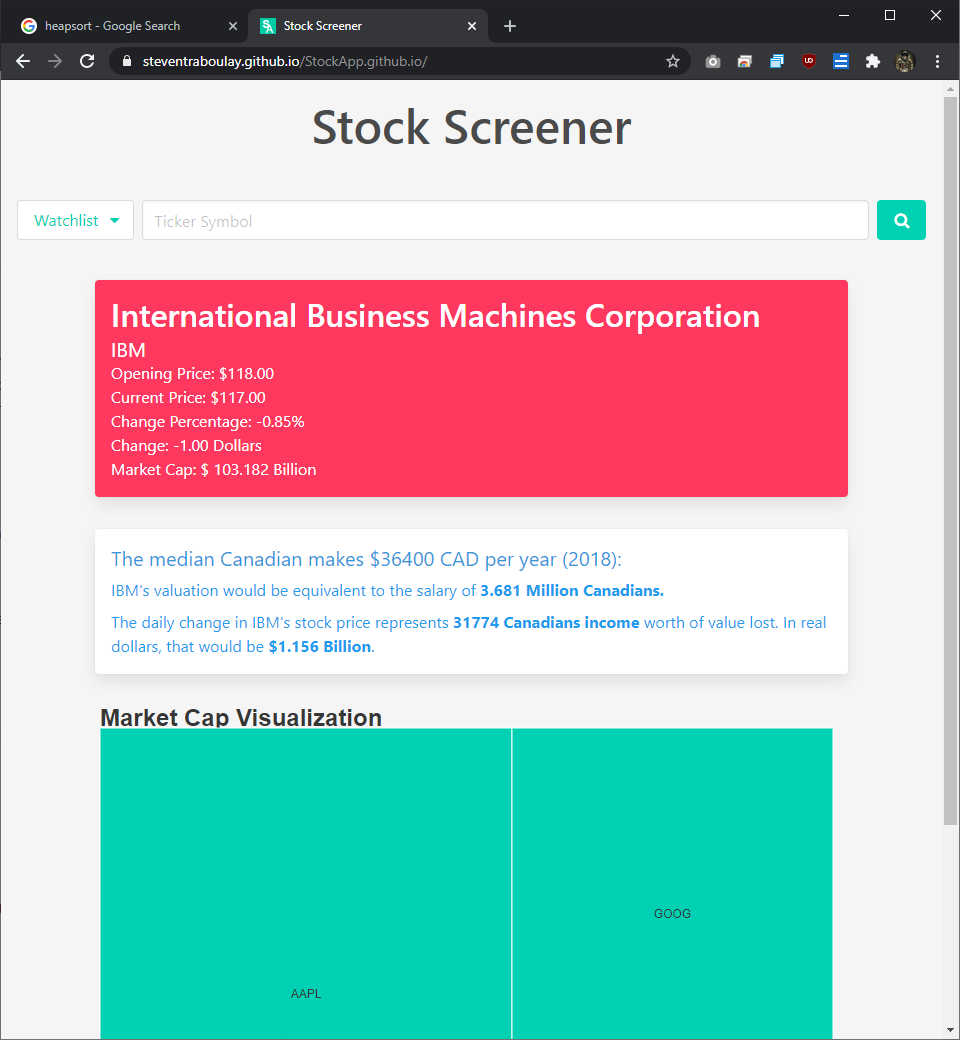
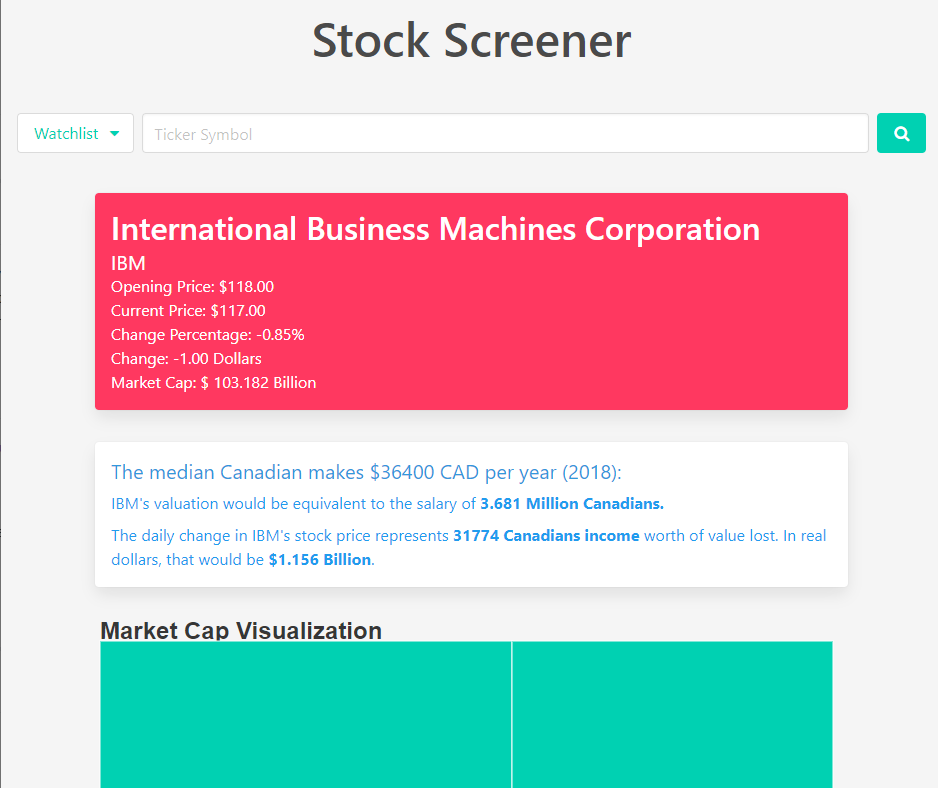
Fixed chart title

diff --git a/index.html b/index.html
@@ -70,8 +70,8 @@
       <footer class="footer">
         <div class="content has-text-centered">
           <p>
-            <strong>Stock Screener</strong> by <a href="https://github.com/StevenTraboulay">Steven</a>, 
-            <a href="#">Asghar</a> and <a href="https://logner.github.io">Kumash</a>. 
+            <strong>Stock Screener</strong> by <a href="https://logner.github.io">Kumash</a>, <a href="https://github.com/StevenTraboulay">Steven</a> and
+            <a href="#">Asghar</a>. 
           </p>
           <p>
             Made during first group project for the University of Toronto School of Continuing Studies Coding Bootcamp in October 2020.

diff --git a/assets/js/uiElements.js b/assets/js/uiElements.js
@@ -101,7 +101,7 @@ function visualizeMarketCap() {
     maxColor: '#00d1b2',
     headerHeight: 0,
     fontColor: '#363636',
-    title: 'Placeholder',
+    title: 'Market Cap Visualization',
     titleTextStyle: {color:'#363636', fontSize: '24'},
 
     // showToolTip function (hover effects)
